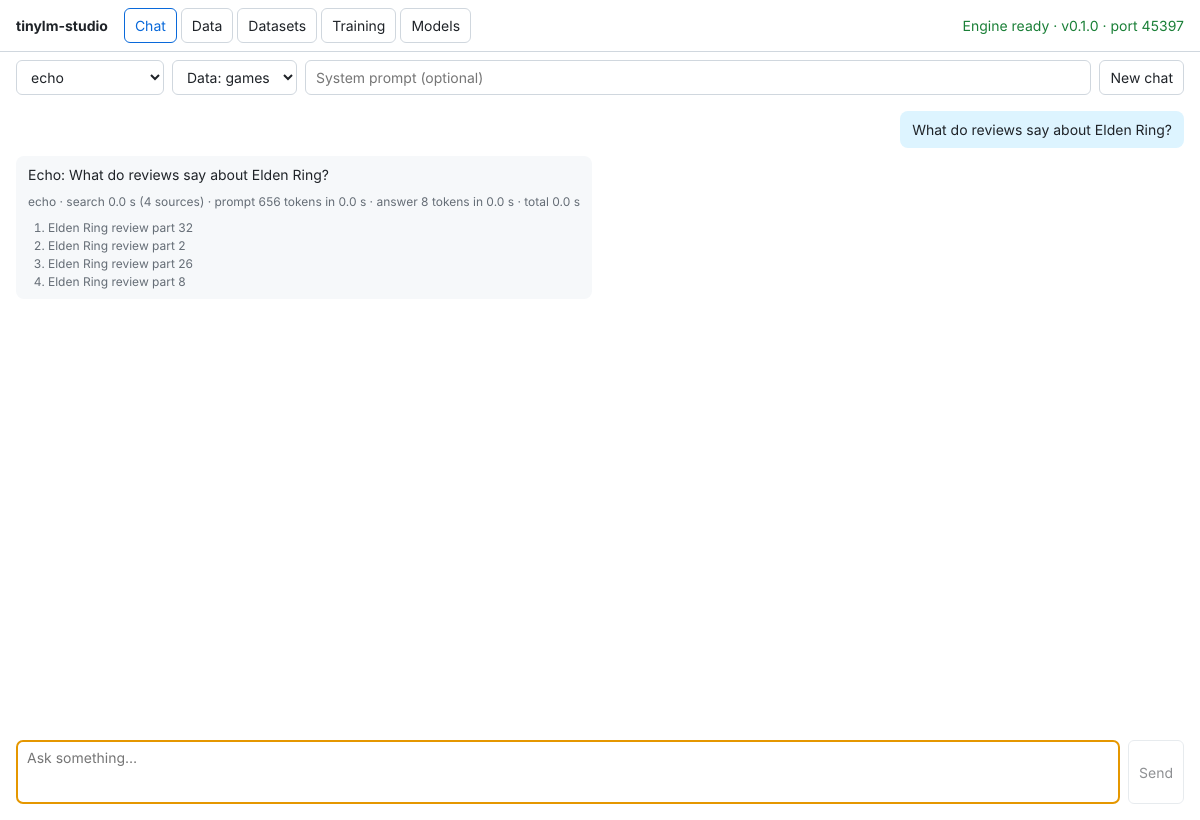
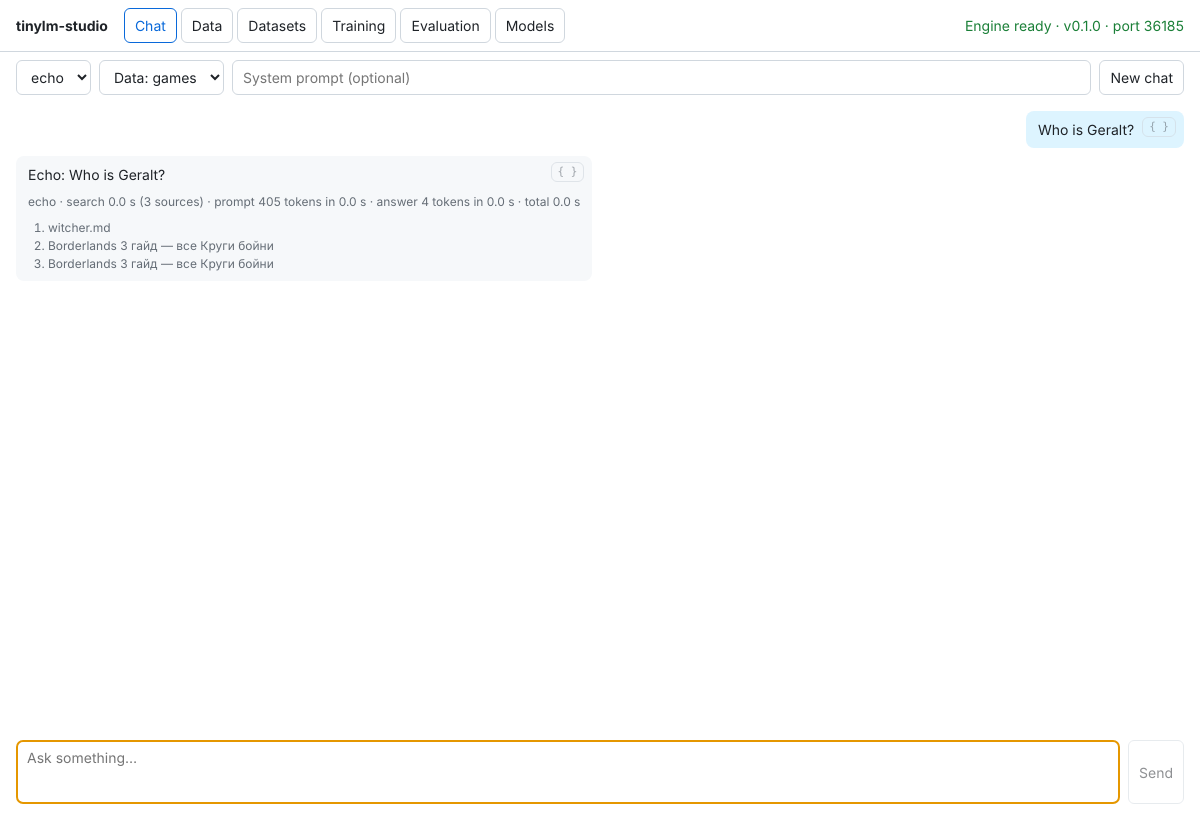
Show the JSON sent and received for each chat message
A { } button on every question and answer opens the exchange with the
engine: the request body, the prompt as the model got it (with the
sources added), and every streamed chunk. The engine returns that prompt
when /v1/chat/completions is called with the new "debug": true field.

Claude-Session: https://claude.ai/code/session_01K6iyxnxtYDs5kNr5qmfTjK

diff --git a/desktop/src/renderer/Chat.tsx b/desktop/src/renderer/Chat.tsx
@@ -1,8 +1,10 @@
 import { FormEvent, useEffect, useRef, useState } from "react";
-import { ChatMessage, EngineClient, Source, Timings } from "./api";
+import { ChatMessage, ChatTrace, EngineClient, Source, Timings } from "./api";
 import { LiveStatus, Progress, Stats } from "./Stats";
 
-type Turn = ChatMessage & { sources?: Source[]; timings?: Timings; model?: string };
+/** A question and its answer share the trace of the request that answered it. */
+type Turn = ChatMessage & { sources?: Source[]; timings?: Timings; model?: string; trace?: ChatTrace };
+type TraceView = { trace: ChatTrace; side: "sent" | "received" };
 
 export function Chat({ client, onNeedModel }: { client: EngineClient; onNeedModel: () => void }) {
   const [models, setModels] = useState<string[]>([]);
@@ -15,6 +17,7 @@ export function Chat({ client, onNeedModel }: { client: EngineClient; onNeedMode
   const [error, setError] = useState<string | null>(null);
   const [busy, setBusy] = useState(false);
   const [progress, setProgress] = useState<Progress | null>(null);
+  const [traceView, setTraceView] = useState<TraceView | null>(null);
   const abort = useRef<AbortController | null>(null);
 
   useEffect(() => {
@@ -28,9 +31,10 @@ export function Chat({ client, onNeedModel }: { client: EngineClient; onNeedMode
   async function send(event: FormEvent) {
     event.preventDefault();
     if (!input.trim() || !model || busy) return;
-    const question: Turn = { role: "user", content: input.trim() };
+    const trace: ChatTrace = { request: {}, chunks: [] };
+    const question: Turn = { role: "user", content: input.trim(), trace };
     const history: ChatMessage[] = [...messages, question].map(({ role, content }) => ({ role, content }));
-    setMessages([...messages, question, { role: "assistant", content: "", model }]);
+    setMessages([...messages, question, { role: "assistant", content: "", model, trace }]);
     setInput("");
     setError(null);
 
@@ -50,6 +54,7 @@ export function Chat({ client, onNeedModel }: { client: EngineClient; onNeedMode
       };
       await client.chat(model, prompt, onText, {
         signal: controller.signal,
+        trace,
         collection: collection || undefined,
         onStart: () => setProgress((p) => p && { ...p, phase: "reading", prepared: performance.now() }),
         onSources: (sources) => updateLast((last) => ({ ...last, sources })),
@@ -94,6 +99,15 @@ export function Chat({ client, onNeedModel }: { client: EngineClient; onNeedMode
       <div className="messages">
         {messages.map((m, i) => (
           <div key={i} className={`message ${m.role}`}>
+            {m.trace && (
+              <button
+                className="trace-button"
+                title={m.role === "user" ? "Show the JSON sent" : "Show the JSON received"}
+                onClick={() => setTraceView({ trace: m.trace!, side: m.role === "user" ? "sent" : "received" })}
+              >
+                {"{ }"}
+              </button>
+            )}
             {m.content || (busy ? "…" : "")}
             {busy && i === messages.length - 1 && progress && <LiveStatus progress={progress} />}
             {m.timings && <Stats timings={m.timings} model={m.model} sources={m.sources?.length} />}
@@ -108,6 +122,13 @@ export function Chat({ client, onNeedModel }: { client: EngineClient; onNeedMode
         ))}
         {error && <div className="message error">{error}</div>}
       </div>
+      {traceView && (
+        <TraceDialog
+          view={traceView}
+          onSide={(side) => setTraceView({ ...traceView, side })}
+          onClose={() => setTraceView(null)}
+        />
+      )}
       <form className="composer" onSubmit={send}>
         <textarea
           value={input}
@@ -123,6 +144,56 @@ export function Chat({ client, onNeedModel }: { client: EngineClient; onNeedMode
           <button type="submit" disabled={!input.trim()}>Send</button>
         )}
       </form>
+    </div>
+  );
+}
+
+/** The JSON of one exchange with the engine: the request, and the streamed chunks received. */
+function TraceDialog({
+  view,
+  onSide,
+  onClose,
+}: {
+  view: TraceView;
+  onSide: (side: TraceView["side"]) => void;
+  onClose: () => void;
+}) {
+  const { trace, side } = view;
+  const first = trace.chunks.find((c): c is { prompt?: unknown } => typeof c === "object" && c !== null);
+  const sections: [string, unknown][] =
+    side === "sent"
+      ? [
+          ["Sent to the engine: POST /v1/chat/completions", trace.request],
+          ["As the model got it, with the sources added", first?.prompt],
+        ]
+      : [[`Received: HTTP ${trace.status ?? "…"}, ${trace.chunks.length} chunks`, trace.chunks]];
+  const text = (value: unknown) => JSON.stringify(value, null, 2);
+  const all = sections.filter(([, value]) => value !== undefined);
+
+  useEffect(() => {
+    const close = (e: KeyboardEvent) => e.key === "Escape" && onClose();
+    window.addEventListener("keydown", close);
+    return () => window.removeEventListener("keydown", close);
+  }, [onClose]);
+
+  return (
+    <div className="trace-backdrop" onClick={onClose}>
+      <div className="trace-dialog" onClick={(e) => e.stopPropagation()}>
+        <div className="trace-header">
+          <div className="tabs">
+            <button className={side === "sent" ? "active" : ""} onClick={() => onSide("sent")}>Sent</button>
+            <button className={side === "received" ? "active" : ""} onClick={() => onSide("received")}>Received</button>
+          </div>
+          <button onClick={() => navigator.clipboard.writeText(all.map(([, v]) => text(v)).join("\n\n"))}>Copy</button>
+          <button onClick={onClose}>Close</button>
+        </div>
+        {all.map(([title, value]) => (
+          <section key={title}>
+            <h4>{title}</h4>
+            <pre>{text(value)}</pre>
+          </section>
+        ))}
+      </div>
     </div>
   );
 }

diff --git a/desktop/src/renderer/api.ts b/desktop/src/renderer/api.ts
@@ -335,6 +335,16 @@ export type ChatOptions = {
   onStart?: () => void;
   onSources?: (sources: Source[]) => void;
   onTimings?: (timings: Timings) => void;
+  /** Filled in as the exchange goes: the request sent and every chunk received, for debugging. */
+  trace?: ChatTrace;
+};
+
+/** One chat request and its streamed response, exactly as sent and received. */
+export type ChatTrace = {
+  request: Record<string, unknown>;
+  status?: number;
+  /** The parsed `data:` events of the stream, ending with "[DONE]"; or the error body. */
+  chunks: unknown[];
 };
 
 export class EngineClient {
@@ -698,13 +708,29 @@ export class EngineClient {
     onText: (text: string) => void,
     options: ChatOptions = {},
   ) {
+    const request = {
+      model,
+      messages,
+      stream: true,
+      max_tokens: 512,
+      collection: options.collection,
+      // Asks the engine for the prompt as the model got it, for the trace.
+      debug: options.trace ? true : undefined,
+    };
+    const trace = options.trace ?? { request, chunks: [] };
+    trace.request = JSON.parse(JSON.stringify(request)); // without the undefined fields, as sent
     const response = await fetch(`${this.baseUrl}/v1/chat/completions`, {
       method: "POST",
       headers: { "content-type": "application/json" },
-      body: JSON.stringify({ model, messages, stream: true, max_tokens: 512, collection: options.collection }),
+      body: JSON.stringify(request),
       signal: options.signal,
     });
-    if (!response.ok || !response.body) throw new Error(await errorText(response));
+    trace.status = response.status;
+    if (!response.ok || !response.body) {
+      const text = await response.clone().text().catch(() => "");
+      trace.chunks.push(parseOrText(text));
+      throw new Error(await errorText(response));
+    }
 
     const reader = response.body.pipeThrough(new TextDecoderStream()).getReader();
     let buffer = "";
@@ -716,8 +742,12 @@ export class EngineClient {
       buffer = events.pop() ?? "";
       for (const event of events) {
         const data = event.replace(/^data: /, "");
-        if (data === "[DONE]") return;
+        if (data === "[DONE]") {
+          trace.chunks.push(data);
+          return;
+        }
         const chunk = JSON.parse(data);
+        trace.chunks.push(chunk);
         if (chunk.choices?.[0]?.delta?.role) options.onStart?.();
         if (chunk.sources) options.onSources?.(chunk.sources);
         if (chunk.timings) options.onTimings?.(chunk.timings);
@@ -735,6 +765,14 @@ export class EngineClient {
     const response = await fetch(`${this.baseUrl}${path}`, init);
     if (!response.ok) throw new Error(await errorText(response));
     return response;
+  }
+}
+
+function parseOrText(text: string): unknown {
+  try {
+    return JSON.parse(text);
+  } catch {
+    return text;
   }
 }
 

diff --git a/desktop/src/renderer/styles.css b/desktop/src/renderer/styles.css
@@ -152,3 +152,13 @@ th, td { text-align: left; padding: 8px; border-bottom: 1px solid var(--border);
 .export-form { display: flex; flex-wrap: wrap; gap: 6px; margin-top: 6px; }
 .export-form input { min-width: 200px; }
 .export-status { margin-top: 6px; display: flex; flex-direction: column; gap: 4px; max-width: 420px; }
+/* Chat: the JSON sent and received for each message */
+.trace-button { float: right; margin: -2px -4px 0 8px; padding: 0 6px; font: 11px/18px ui-monospace, monospace; color: var(--muted); background: transparent; opacity: 0.6; }
+.trace-button:hover { opacity: 1; color: var(--accent); border-color: var(--accent); }
+.trace-backdrop { position: fixed; inset: 0; background: rgba(0, 0, 0, 0.4); display: flex; align-items: center; justify-content: center; z-index: 10; }
+.trace-dialog { background: var(--bg); border: 1px solid var(--border); border-radius: 8px; width: min(900px, 90vw); max-height: 85vh; display: flex; flex-direction: column; padding: 12px 16px; overflow-y: auto; }
+.trace-header { display: flex; gap: 8px; align-items: center; }
+.trace-header .tabs { display: flex; gap: 4px; flex: 1; }
+.trace-header .tabs button.active { border-color: var(--accent); color: var(--accent); }
+.trace-dialog h4 { margin: 12px 0 4px; font-size: 13px; color: var(--muted); font-weight: 500; }
+.trace-dialog pre { margin: 0; padding: 8px; background: var(--assistant); border-radius: 6px; font: 12px/1.45 ui-monospace, monospace; white-space: pre-wrap; word-break: break-word; }

diff --git a/engine/src/engine/api/openai.py b/engine/src/engine/api/openai.py
@@ -4,6 +4,7 @@ import json
 import time
 import uuid
 from collections.abc import Iterator
+from dataclasses import asdict
 from typing import Literal
 
 from fastapi import APIRouter, Depends, Request
@@ -48,6 +49,8 @@ class ChatCompletionRequest(BaseModel):
     stream_options: StreamOptions | None = None
     # tinylm extension: answer from this collection of uploaded data, with cited sources.
     collection: str | None = None
+    # tinylm extension: also return the request as the model got it, with the added sources.
+    debug: bool = False
 
     def to_internal(self) -> ChatRequest:
         messages = []
@@ -109,6 +112,8 @@ def chat_completions(
         )
     # Sources are an extension field, only present when a collection was used.
     extra = {"sources": sources} if body.collection else {}
+    if body.debug:
+        extra["prompt"] = asdict(request)
     with timings.measure("load_ms"):
         runtime = models.runtime(body.model)
     completion_id = f"chatcmpl-{uuid.uuid4().hex}"

diff --git a/engine/tests/test_knowledge.py b/engine/tests/test_knowledge.py
@@ -123,6 +123,21 @@ def test_openai_answer_carries_sources(games):
     )
     first = next(iter(stream))
     assert first.sources[0]["document"] == "witcher.txt"
+    assert not hasattr(first, "prompt")
+
+    # debug: the request as the model got it, with the sources in the system prompt.
+    stream = api.chat.completions.create(
+        model="echo",
+        messages=messages,
+        stream=True,
+        max_tokens=32,
+        extra_body={"collection": "games", "debug": True},
+    )
+    prompt = next(iter(stream)).prompt
+    assert prompt["model"] == "echo" and prompt["max_tokens"] == 32
+    assert prompt["messages"][0]["role"] == "system"
+    assert "hunts monsters for coin" in prompt["messages"][0]["content"]
+    assert prompt["messages"][-1] == messages[0]
 
     with pytest.raises(openai.NotFoundError):
         api.chat.completions.create(

diff --git a/docs/user-guide.md b/docs/user-guide.md
@@ -49,6 +49,13 @@ app read it.
 - The line under each answer shows where the time went: loading the model, searching the data,
   reading the prompt (tokens per second) and writing the answer. Use it to see what is slow.
 - **New chat** clears the conversation; **Stop** ends an answer early.
+- The **{ }** button in the corner of each message shows the JSON of that exchange with the
+  engine. On a question it opens **Sent**: the request body sent to `/v1/chat/completions`, and
+  the request as the model got it, with the system prompt and the sources found in the data.
+  On an answer it opens **Received**: the HTTP status and every streamed chunk, including
+  `sources` and `timings`. **Copy** copies what is shown; Esc closes it.
+
+![The JSON sent for a question](images/chat-trace.png)
 
 The same models answer through the OpenAI- and Anthropic-compatible APIs, so any client or SDK
 can use them (see [api.md](api.md)).

diff --git a/docs/api.md b/docs/api.md
@@ -69,6 +69,24 @@ print([s["document"] for s in reply.sources])
 
 With the Anthropic SDK, pass the same `extra_body` and read `message.model_extra["sources"]`.
 
+### The prompt as the model got it
+
+`/v1/chat/completions` also accepts `"debug": true`. The response then carries a `prompt`
+object (top level for non-streaming responses, in the first chunk when streaming): the request
+after the engine prepared it, with the sources added to the system prompt. The chat screen uses
+it to show what the model was given.
+
+```json
+"prompt": {
+  "model": "echo",
+  "messages": [
+    {"role": "system", "content": "Answer the user's question using the numbered sources below. ..."},
+    {"role": "user", "content": "Who is Geralt?"}
+  ],
+  "max_tokens": 512, "temperature": 0.7, "top_p": 1.0, "stop": []
+}
+```
+
 ### Timings
 
 Every answer carries a `timings` object (top level for non-streaming responses; on the chunk
